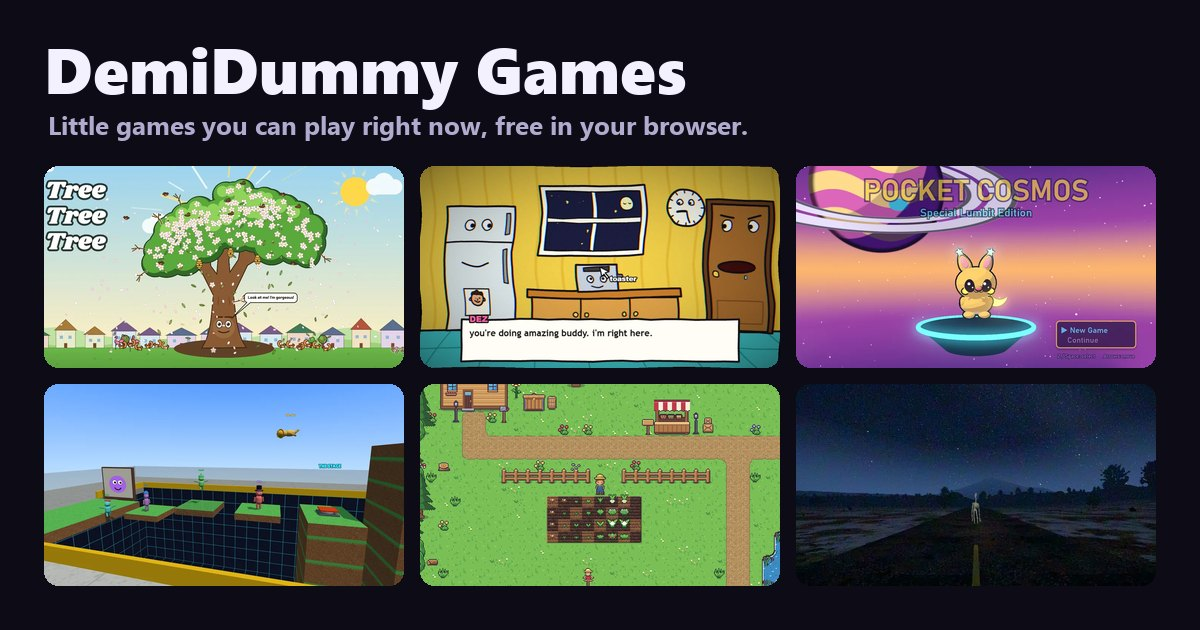
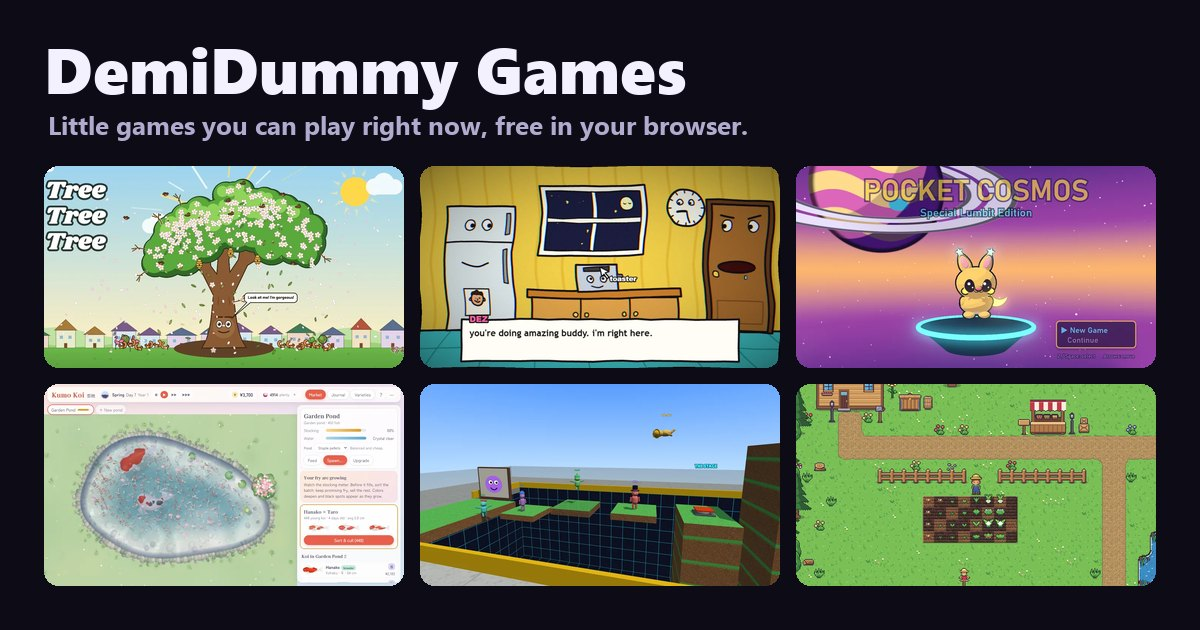
Add Kumo Koi, a cozy koi-breeding game

Changed region(s): [[0.0308, 0.6032, 0.9867, 0.9349]]

diff --git a/index.html b/index.html
@@ -4,7 +4,7 @@
     <meta charset="utf-8">
     <meta name="viewport" content="width=device-width, initial-scale=1">
     <title>DemiDummy Games</title>
-    <meta name="description" content="Little games you can play right now, free in your browser: a co-op game about making games, a monster-catching JRPG, a pirate tactics game, a survival horror manor, a first-person horror investigation, a VHS dream, an analog horror comedy, a cozy farming and fishing demo, two idle games and an idle town builder.">
+    <meta name="description" content="Little games you can play right now, free in your browser: a co-op game about making games, a monster-catching JRPG, a pirate tactics game, a survival horror manor, a first-person horror investigation, a VHS dream, an analog horror comedy, a cozy farming and fishing demo, a koi-breeding game, two idle games and an idle town builder.">
     <meta name="theme-color" content="#0d0c16">
     <meta property="og:type" content="website">
     <meta property="og:title" content="DemiDummy Games">
@@ -39,7 +39,7 @@
         <div class="masthead-copy">
             <h1>Games you can play <em>right now.</em></h1>
             <p class="lede">
-                <span id="game-count">Thirteen</span> little worlds, free in your browser. No installs, no accounts:
+                <span id="game-count">Fourteen</span> little worlds, free in your browser. No installs, no accounts:
                 pick one and press play.
             </p>
             <div class="masthead-actions">
@@ -60,6 +60,23 @@
 
     <main>
         <ul class="grid" id="games">
+            <li class="card" style="--accent: #ff9e8f; --accent-ink: #3a0f0a">
+                <div class="cover"><img src="img/kumo-koi.webp" width="960" height="540" alt="A pastel garden pond seen from above: two big red-and-white koi glide among hundreds of tiny orange fry, with lily pads, pink petals and a blossoming shrub on the pebbled bank, beside a panel showing the pond's stocking meter and a Sort and cull button"></div>
+                <div class="body">
+                    <p class="genre">Cozy koi breeding</p>
+                    <h2><a class="stretch" href="https://demidummy.github.io/kumo-koi/">Kumo Koi</a></h2>
+                    <p class="blurb">Pair koi in spring and hatch hundreds of fry, each a new mix of its parents. Sort them by eye, raise the keepers, sell the rest, dig new ponds, shoo the herons and chase ribbons at the autumn koi show, in a pastel cloud-pond that turns with the seasons.</p>
+                    <ul class="facts">
+                        <li>Mouse</li>
+                        <li>Real koi genetics</li>
+                    </ul>
+                    <div class="foot">
+                        <span class="updated" data-repo="kumo-koi"></span>
+                        <span class="play" aria-hidden="true">Play <svg viewBox="0 0 24 24"><path d="M8 5l11 7-11 7z"/></svg></span>
+                    </div>
+                </div>
+            </li>
+
             <li class="card" style="--accent: #e040fb; --accent-ink: #2e0035">
                 <div class="cover"><img src="img/works-on-my-machine.webp" width="960" height="540" alt="A grassy platformer level being built on a glowing grid stage: four little developers in role hats (beret, backwards cap, propeller beanie, top hat) stand on floating platforms beside a poster of a purple smiley, while a fifth in a hard hat flails high in the air after a buggy spring launched them"></div>
                 <div class="body">
